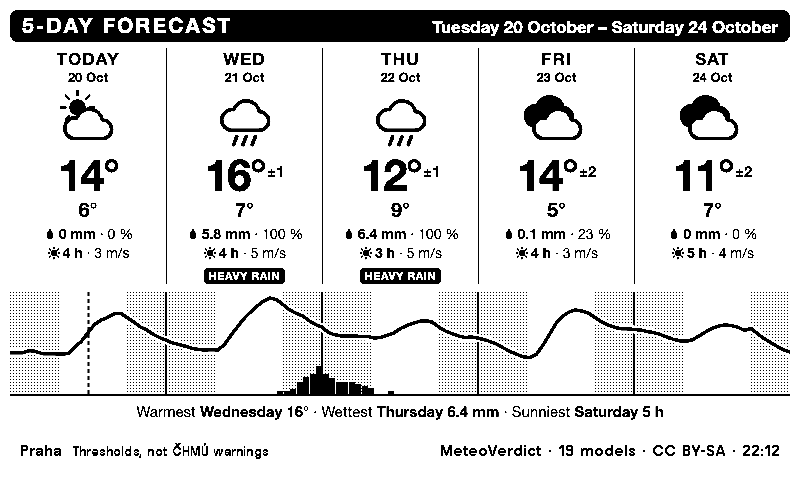
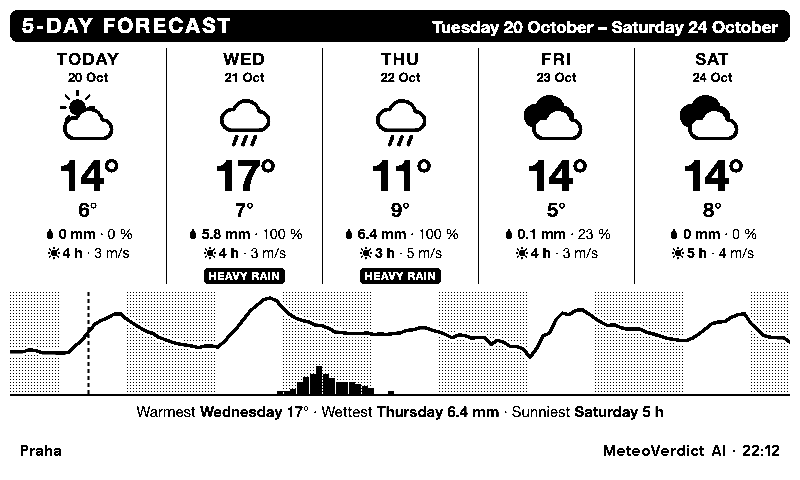
MeteoVerdict AI by default; no midnight lines; no licence or thresholds note on screen
- Forecast: MeteoVerdict AI is the form's default; the footer says "MeteoVerdict AI"
- The 5-day chart has no lines at midnight either
- A day's high and low span its parts (the AI's whole-day row can cover fewer hours)
- The footer no longer shows "CC BY-SA" or "Thresholds, not ČHMÚ warnings"; the README
  and the About box still say both
- Screenshots from the AI's files (one with the combined forecast), mashups in English

diff --git a/README.md b/README.md
@@ -14,13 +14,13 @@ over the last 90 days. So you get a forecast tuned for where you live rather tha
 model's opinion. Free, no API key.
 
 **New in October 2026**
-- **Which forecast:** MeteoVerdict's combined forecast (the default) or **MeteoVerdict AI**
-  (experimental) for temperature and wind. The footer says which one you are looking at.
-- **The range of the temperature:** from tomorrow on, the high comes with its "±", half
-  of MeteoVerdict's 80 % range (*16° ±2*).
+- **MeteoVerdict AI:** temperature and wind come from MeteoVerdict's own AI model (the
+  default), everything else from the combined forecast; or pick the combined forecast of
+  all models. The footer says which one you are looking at.
+- **The range of the temperature:** with the combined forecast, from tomorrow on, the
+  high comes with its "±", half of MeteoVerdict's 80 % range (*16° ±2*).
 - **Thresholds from MeteoVerdict itself:** the badges use the same flags as the website
-  (frost from the corrected night minimum, ground frost, heavy rain, gusts over 13.5 m/s),
-  and the footer says that they are thresholds, not ČHMÚ warnings.
+  (frost from the corrected night minimum, ground frost, heavy rain, gusts over 13.5 m/s).
 - **An obec instead of the okres** (a test): the temperature, rain and wind of any of
   6,258 municipalities, corrected for its elevation.
 - **Rain with its chance and day:** *Rain from tomorrow 16:00 · 1.5 mm · 23 % chance*.
@@ -36,14 +36,14 @@ A weather display gets a glance on your way out, so each view answers one questi
 ### Today and tomorrow
 
 Two days side by side. For each:
-- the symbol, high and low (tomorrow's high with its ±), and a one-word summary;
+- the symbol, high and low (with the combined forecast, tomorrow's high with its ±), and a one-word summary;
 - rain with its chance, hours of sunshine out of the day's daylight (and how many minutes
   longer or shorter the day is than the day before: *of 10 h 26 min (−3)*), cloud cover
   and wind;
 - sunrise and sunset, and for the second day how much warmer or colder it gets;
 - night, morning, afternoon and evening, each with its own symbol;
-- the hourly temperature curve, with rain bars, the night dotted, a dashed line at the
-  current time and the hours 06, 12 and 18 under it;
+- under both days, one hourly temperature curve from edge to edge, with rain bars, the
+  night dotted, a dashed line at the current time and the hours 06, 12 and 18 under each day;
 - up to two threshold badges in the day's head.
 
 After 18:00 the screen moves on to tomorrow and the day after, since by then that's what
@@ -66,7 +66,7 @@ For "do I need an umbrella?":
 ![Five days in Prague](screenshots/five-days.png)
 
 For planning the week:
-- each day's symbol, high (with its ± from tomorrow on) and low, rain, sunshine and wind;
+- each day's symbol, high (with the combined forecast, its ± from tomorrow on) and low, rain, sunshine and wind;
 - one continuous temperature curve over the five days, rain bars under it;
 - a closing line naming the warmest, wettest and sunniest day.
 
@@ -111,27 +111,29 @@ A day gets up to two badges, from MeteoVerdict's own threshold flags:
 | Gusts / Nárazy | The strongest gust of the day is 13.5 m/s or more; shows it, in your wind unit |
 | Hot / Vedro | 30 °C or more |
 
-These are MeteoVerdict's thresholds on its forecast, **not official ČHMÚ warnings**; the
-footer says so whenever a badge is on screen. Official warnings: [chmi.cz](https://www.chmi.cz/).
+These are MeteoVerdict's thresholds on its forecast, **not official ČHMÚ warnings**.
+Official warnings: [chmi.cz](https://www.chmi.cz/).
 (Older data without the flags falls back to the previous rules: a low of 0 °C, 10 mm of
 rain, an hourly mean wind of 10 m/s.)
 
-### MeteoVerdict AI
+### MeteoVerdict AI or the combined forecast
 
-![Today and tomorrow in Prague with MeteoVerdict AI](screenshots/today-tomorrow-ai.png)
+![Today and tomorrow in Prague with the combined forecast](screenshots/today-tomorrow-blend.png)
 
-With *Forecast: MeteoVerdict AI (experimental)*, temperature and wind come from
-MeteoVerdict's own AI model; everything else (rain, clouds, sunshine, symbols, gusts,
-frost) stays the combined forecast. The AI has no "±" yet, so the highs come without it,
-and the footer says *MeteoVerdict AI (exp.)*. It is experimental: the combined forecast,
-which is checked against the stations every day, stays the default.
+By default (*Forecast: MeteoVerdict AI*), temperature and wind come from MeteoVerdict's
+own AI model, as on the website, and everything else (rain, clouds, sunshine, symbols,
+gusts, frost) from the combined forecast; the footer says *MeteoVerdict AI*. The AI is
+still experimental and has no "±". With *Forecast: MeteoVerdict (all models combined)*
+everything is the combined forecast, which is checked against the stations every day,
+the highs from tomorrow on come with their ±, and the footer says *MeteoVerdict · 19
+models* (above).
 
 ### An obec
 
 ![Špindlerův Mlýn, an obec in the okres Trutnov](screenshots/today-tomorrow-obec.png)
 
 For a hilly okres the okres's one forecast point can be far from your village. MeteoVerdict
-also forecasts every obec (a test), corrected for its elevation. With an obec, the
+also forecasts every obec (a test, with the combined forecast), corrected for its elevation. With an obec, the
 temperature, rain and wind (and the frost badges) are the obec's; the sky, sunshine and
 chance of rain stay the okres's. The footer shows the obec's name and *obec (test)*. See
 [Install](#an-obec-private-plugins) for how to set it up.
@@ -166,7 +168,7 @@ Add it to your TRMNL as a private plugin. That takes about five minutes.
 
    `{{ forecast }}` and `{{ okres_code }}` are filled in from the form in step 3.
    (Installed before October 2026 with `…/api/v1/okresy/{{ okres_code }}.json`? That
-   still works and is the combined forecast; switch to the URL above to choose.)
+   still works and is the combined forecast; switch to the URL above for MeteoVerdict AI.)
 3. **Form fields:** paste [`src/settings.yml`](src/settings.yml), then save, fill in the
    form and save again. It creates these fields:
 
@@ -174,7 +176,7 @@ Add it to your TRMNL as a private plugin. That takes about five minutes.
    |---|---|
    | About This Plugin | The description and links. Nothing to fill in |
    | Okres | A dropdown of all 77. Required |
-   | Forecast | MeteoVerdict (all models combined), the default, or MeteoVerdict AI (experimental) |
+   | Forecast | MeteoVerdict AI, the default, or MeteoVerdict (all models combined) |
    | View | What the full screen shows: today and tomorrow, next 24 hours, 5 days, or the weekend |
    | Place name | Shown in the footer instead of the okres (or obec) name. Optional |
    | Move on to tomorrow in the evening | After 18:00 the day layouts show tomorrow and the day after, and the weekend view looks a day ahead. On by default |
@@ -227,7 +229,8 @@ requirements (its own styles exceed the linter's limit on inline layout styles).
 
 | Value | Where it comes from |
 |---|---|
-| Temperature, rain, wind | MeteoVerdict's blend of about 20 models, weighted and bias-corrected per okres and lead day ([methodology](https://github.com/JerryWoof/MeteoVerdict/blob/main/docs/methodology.md)); or, with *MeteoVerdict AI*, temperature and wind from the AI |
+| Temperature, wind | MeteoVerdict AI (experimental), by default; with the combined forecast, MeteoVerdict's blend of about 20 models, weighted and bias-corrected per okres and lead day ([methodology](https://github.com/JerryWoof/MeteoVerdict/blob/main/docs/methodology.md)) |
+| Rain | MeteoVerdict's blend, as above |
 | ± of the high | Half of the 80 % range of the blend's temperature at the day's warmest hour: the true high falls inside the range about 8 times in 10 |
 | Chance of rain | MeteoVerdict's chance of rain for each part of the day; the 24-hour sentence takes the highest of the parts it covers |
 | Clouds, sunshine | The mean of the models, corrected against ČHMÚ observations |
@@ -238,8 +241,8 @@ requirements (its own styles exceed the linter's limit on inline layout styles).
 | Hourly symbols (next 24 hours) | The plugin's own, per hour: rain, sleet or snow from 0.5 mm, showers from 0.1 mm, otherwise clear under 25 % cloud, partly cloudy under 70 % |
 | Feels like | Wind chill (Environment Canada formula), at 10 °C or below with wind over 4.8 km/h |
 
-The full-screen footer shows which forecast it is (*MeteoVerdict · 19 models* or
-*MeteoVerdict AI (exp.)*), its licence and when it was made. The half and quarter footers
+The full-screen footer shows which forecast it is (*MeteoVerdict AI*, or *MeteoVerdict ·
+19 models* for the combined forecast) and when it was made. The half and quarter footers
 show only the time, plus the date if the forecast isn't from today. A forecast older than
 30 hours gets an *old forecast* badge. If the data has nothing left for today, the screen
 says so instead of showing an old day.
@@ -291,11 +294,10 @@ npm run settings              # regenerate src/settings.yml from MeteoVerdict's 
   DMI, ČHMÚ, Environment and Climate Change Canada, the Japan Meteorological Agency, the
   China Meteorological Administration and the UK Met Office (CC BY-SA 4.0), and from ČHMÚ
   observations (CC BY 4.0). Boundaries: ČÚZK (CC BY 4.0). Obec elevations: Copernicus DEM
-  GLO-90. The footer of every layout credits MeteoVerdict, and the full-screen footer its
-  licence.
+  GLO-90. The footer of every layout credits MeteoVerdict.
 - **Non-commercial.** MeteoVerdict uses Open-Meteo's free, non-commercial API, so this
   plugin is free and without ads, and stays that way.
 - **Thresholds, not warnings.** Only ČHMÚ issues weather warnings in Czechia (Act 262/2024
-  Sb.); the badges are MeteoVerdict's thresholds and the screen says so.
+  Sb.); the badges are MeteoVerdict's thresholds.
 
 A non-commercial, independent project, not affiliated with TRMNL, ČHMÚ or Open-Meteo.

diff --git a/recipe/README.md b/recipe/README.md
@@ -47,8 +47,8 @@ written in English with one Czech line:
 >
 > The forecast is MeteoVerdict's. Every day it checks how well about 20 weather models
 > forecast what ČHMÚ stations then measured, and blends them, weighting each model by how
-> accurate it has been in your okres over the last 90 days. You can also pick MeteoVerdict
-> AI (experimental) for temperature and wind. Free, no API key, no account.
+> accurate it has been in your okres over the last 90 days. By default the temperature and
+> wind come from MeteoVerdict AI, its own AI model. Free, no API key, no account.
 >
 > Počasí pro váš okres podle MeteoVerdictu, česky i anglicky.
 >
